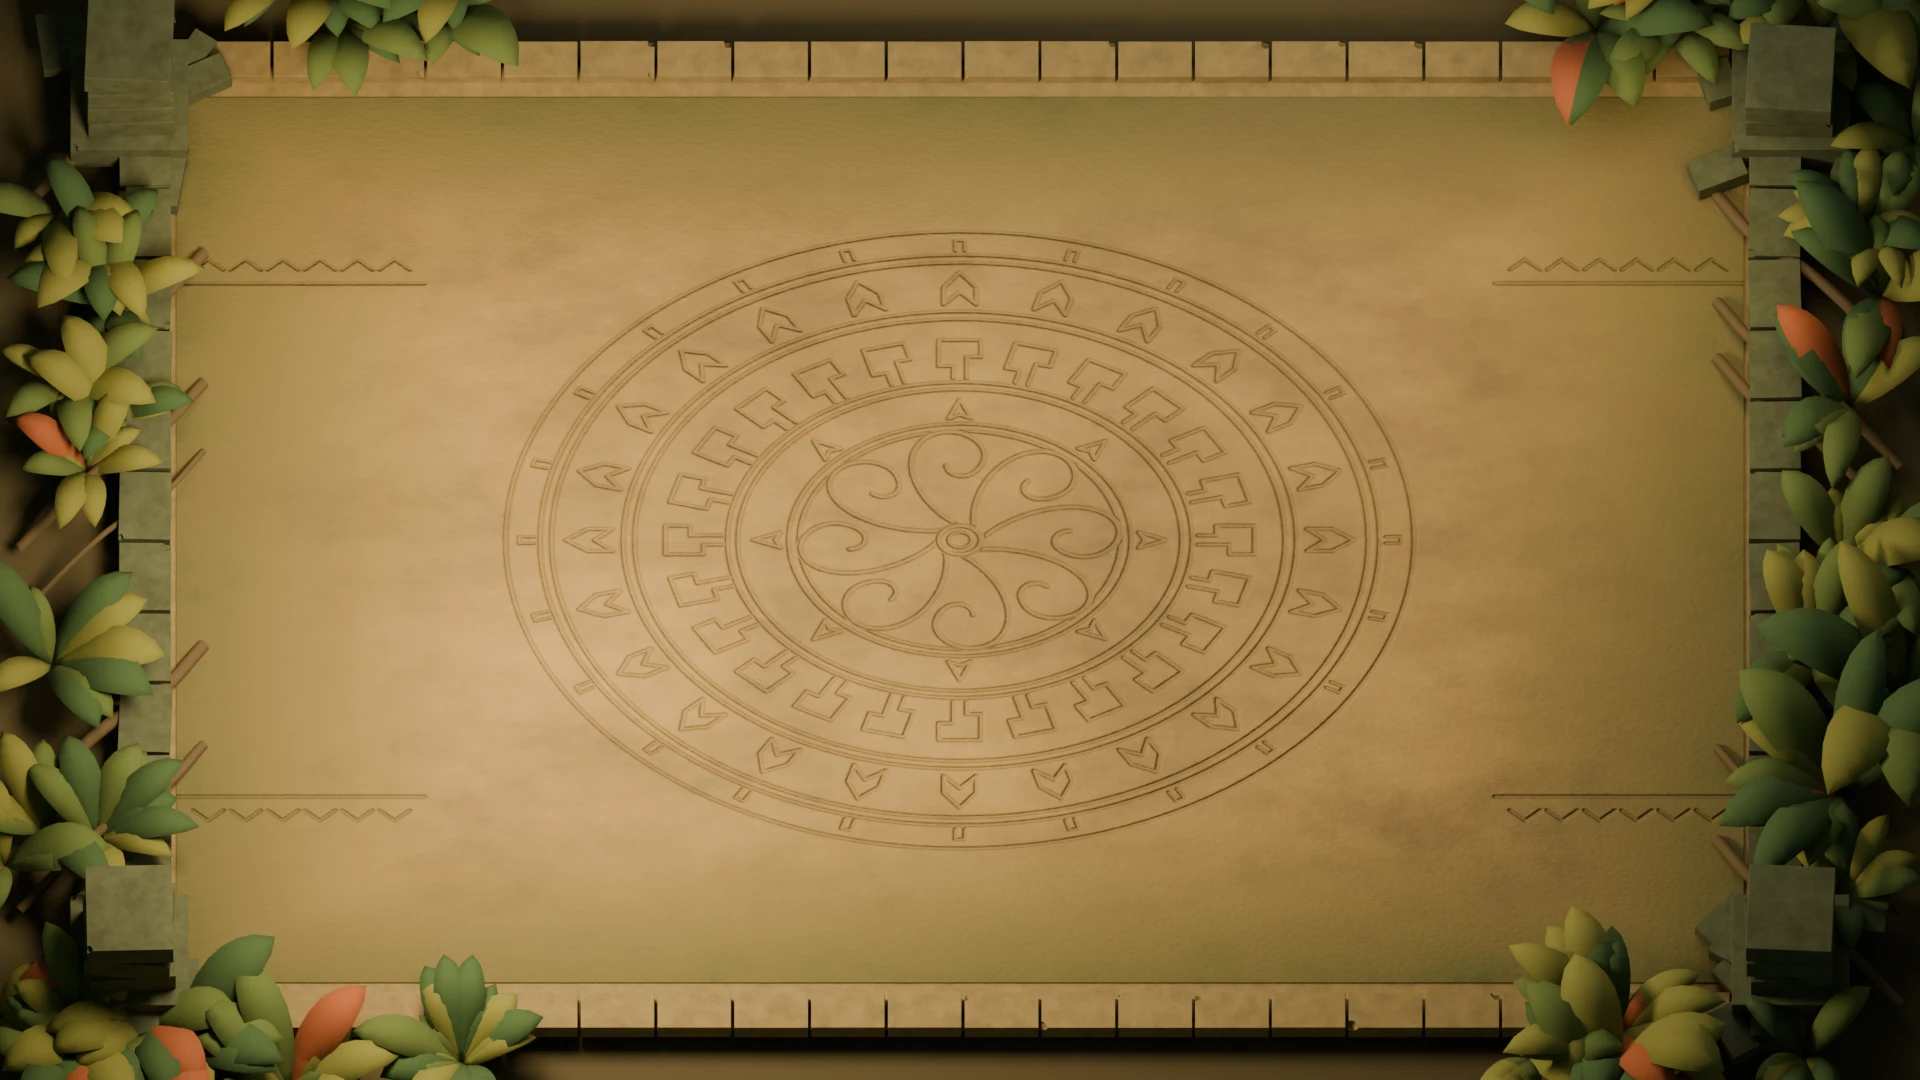
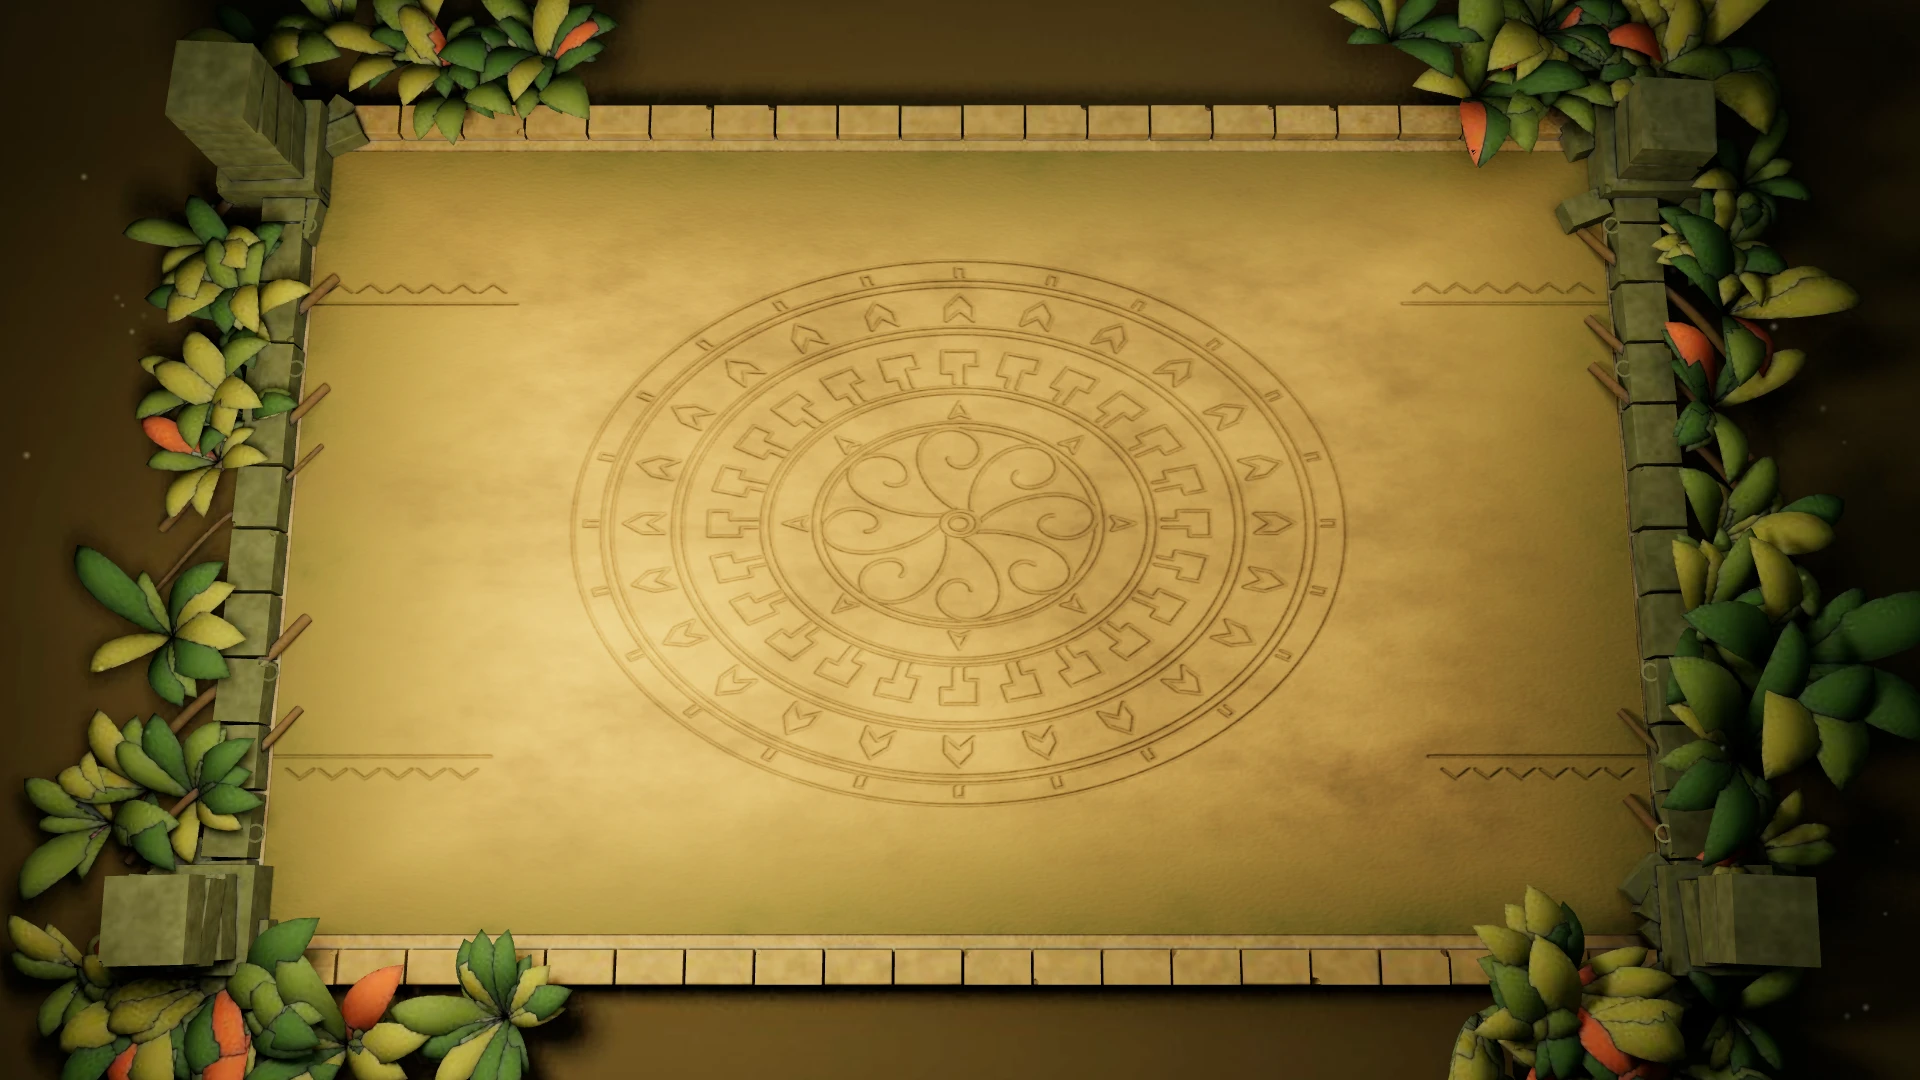
Correct arena perspective and preserve scenery proportions

diff --git a/apps/web/src/game/arenaScene.ts b/apps/web/src/game/arenaScene.ts
@@ -32,10 +32,13 @@ export async function createArena(
   renderer.toneMapping = T.ACESFilmicToneMapping;
   renderer.toneMappingExposure = 1.32;
   const scene = new T.Scene();
-  scene.background = new T.Color('#24271a');
-  const camera = new T.OrthographicCamera(-16, 16, 10, -10, 0.1, 100);
-  // Match the authored Blender camera (glTF converts Z-up to Y-up).
-  camera.position.set(0, 25, 9);
+  scene.background = new T.Color('#17150b');
+  // Fade the finite earth surround into the background on very wide screens.
+  scene.fog = new T.Fog('#17150b', 34, 43);
+  // A steep perspective view gives the far rim a subtle taper, while keeping
+  // scenery close to the overhead orientation of the DOM cards.
+  const camera = new T.PerspectiveCamera(35, 1, 0.1, 100);
+  camera.position.set(0, 32, 7);
   camera.lookAt(0, 0, 0);
   camera.updateMatrixWorld();
   const island = new T.Group();
@@ -170,8 +173,7 @@ export async function createArena(
     if (!r.width || !r.height) return;
     renderer.setSize(r.width, r.height, false);
     const aspect = r.width / r.height;
-    camera.left = -10 * aspect;
-    camera.right = 10 * aspect;
+    camera.aspect = aspect;
     camera.updateProjectionMatrix();
     const fields = table.querySelectorAll('.battlefield');
     if (fields.length === 2) {
@@ -180,11 +182,17 @@ export async function createArena(
       // Center the scenery in the whole viewport; the UI has an asymmetric action column.
       // Symmetric margins keep both pillar bases visible while the floor spans the card rows.
       const margin = r.width * 0.035;
-      const top = screenPoint(r.left + margin, a.top - 12),
-        bottom = screenPoint(r.right - margin, b.bottom + 12);
-      if (top && bottom) {
-        island.position.set((top.x + bottom.x) / 2, 0, (top.z + bottom.z) / 2);
-        island.scale.set(Math.max(8, bottom.x - top.x) / 20, 1, Math.max(6, bottom.z - top.z) / 12);
+      const centerX = r.left + r.width / 2;
+      const centerY = (a.top + b.bottom) / 2;
+      const top = screenPoint(centerX, a.top - 12),
+        bottom = screenPoint(centerX, b.bottom + 12),
+        left = screenPoint(r.left + margin, centerY),
+        right = screenPoint(r.right - margin, centerY);
+      if (top && bottom && left && right) {
+        const scale = Math.min((right.x - left.x) / 20, (bottom.z - top.z) / 12);
+        island.position.set((left.x + right.x) / 2, 0, (top.z + bottom.z) / 2);
+        // Preserve the authored stone and seal proportions at every aspect ratio.
+        island.scale.setScalar(scale);
       }
     }
     renderOnce();

diff --git a/apps/web/src/components/arena.css b/apps/web/src/components/arena.css
@@ -18,7 +18,7 @@
   inset: 0;
   z-index: 0;
   pointer-events: none;
-  background: #101e1b url('/arena/sandstone-fallback.webp') center / 100% 100% no-repeat;
+  background: #17150b url('/arena/sandstone-fallback.webp') center / cover no-repeat;
 }
 
 .arena-backdrop::after {

diff --git a/art/arena/README.md b/art/arena/README.md
@@ -11,7 +11,7 @@ bundled GLB into `apps/web/public/arena`; it does not modify the source scene.
 
 The export bakes lighting and procedural shading into an unlit 2048px floor and
 4096px scenery atlas. These textures are embedded in the GLB. The matching static
-WebP comes from `sandstone-damage-preview.png`. Live spell effects remain in the
+WebP is a card-free capture of the runtime perspective camera. Live spell effects remain in the
 Three.js runtime rather than the Blender export.
 
 Initial browser validation at 1920×1080 in headless Microsoft Edge on an RTX 4080
